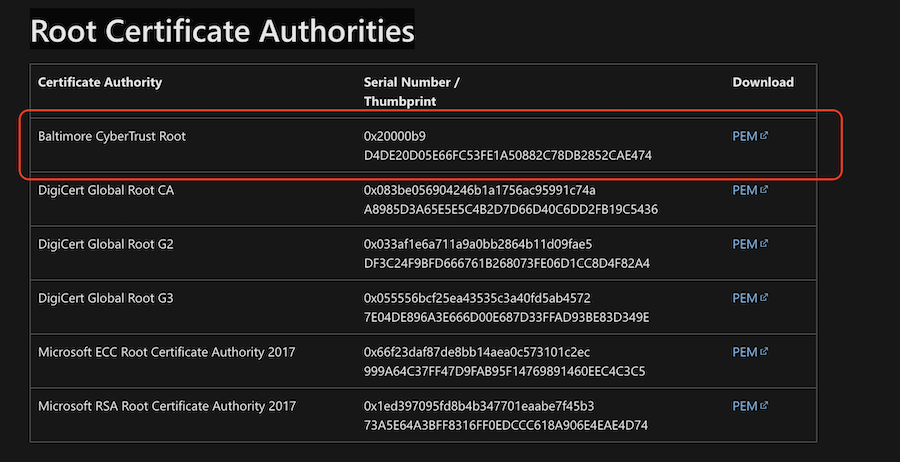
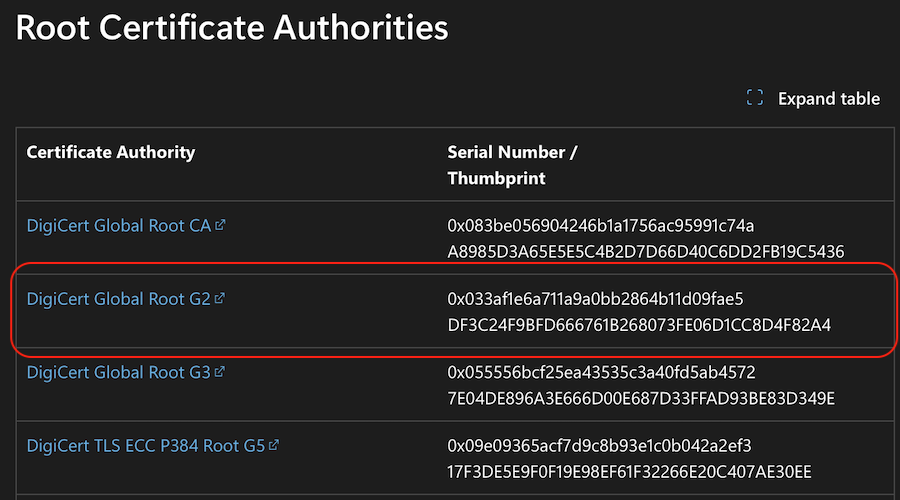
update to azure - for the latest and greatest

diff --git a/docs/docs/settings/services/iot-services/iot_azure.md b/docs/docs/settings/services/iot-services/iot_azure.md
@@ -97,9 +97,21 @@ The Certificate Authority file for Azure is downloaded from this page:
 
 [Microsoft: Azure Certificate Authority Details](https://learn.microsoft.com/en-us/azure/security/fundamentals/azure-ca-details)
 
-The file to download is the ***Baltimore CyberTrust Root*** entry in the **Root Certificate Authorities** section of the page.
-
+The file to download is the ***DigiCert Global Root G2*** entry in the **Root Certificate Authorities** section of the page.
+<figure align="center">
 ![Azure Root CA](/img/iot_az_ca_file.png)
+<figcaption>CA Selection</figcaption>
+</figure>
+
+The CA file is in a binary format and requires conversion to a standard `pem` format  (which starts with ```-----BEGIN CERTIFICATE-----``` to use by the DataLogger's Azure driver.  
+
+To convert the file, the following command is used at the command line of systems with openssl installed
+
+```sh
+openssl x509 -inform DER -in yourcert.crt -out yourcert.pem
+```
+
+Copy the file `yourcert.pem` to an SD card, insert the SD card into the Datalogger and enter the filename `yourcert.pen` in the Azure preferences, or use the JSON file mentioned in the following section.
 
 ## Setting Properties
 
@@ -143,32 +155,43 @@ Once installed, and connected to Azure via the Azure Account extension, you can 
 
 ### Connect to Your Azure IoT Hub
 
-On the Explorer panel of Visual Studio Code, click on the **...** menu of the **AZURE IOT HUB** section. In the popup menu, select the **Select IoT Hub** menu entry.
+To validate that the DataLoggerIot is communicating with your Azure IoT Hub and the associated devices, several methods are available. All these methods read and post the messages or 'telemetry' sent by the DataLogger to the Azure IoT device.
 
-![Select IoT Hub](/img/iot_az_iot_hub_sel.png)
+#### Using the Azure Command Line (CLI)
 
-The available IoT Hubs are displayed in the editors command prompt. Select the desired hub and press ```Enter``` (or click).
+One of the fast methods to do this is using the Azure CLI.
 
-![Select IoT Hub](/img/iot_az_iot_hub_sel_menu.png)
+First, install the Azure CLI. Instructions are provided here: [How to install the Azure CLI](https://learn.microsoft.com/en-us/cli/azure/install-azure-cli?view=azure-cli-latest).
 
-### Select IoT Hub
+Once installed, the `azure-iot` CLI extension needs installation. This is done with the following command:
 
-The hub is then displayed in the **AZURE IOT HUB** section of the editor Explorer. Expanding the **Devices** section of the Hub will list the example device created above.
+```sh
+az extension add --name azure-iot
+```
 
-![Select IoT Hub](/img/iot_az_iot_hub_exp.png)
+Then make sure you have logged into the Azure with the following command:
 
-### Monitoring
+```sh
+az login
+```
 
-To monitor the telemetry data send to a device, right click on the device, ***TestDevice2023*** in this example, select the menu entry **Start Monitoring Build-in Event Endpoint**.
+Then to monitor telemetry, enter the following command:
 
-![Start Monitoring](/img/iot_az_iot_start_mon.png)
+```sh
+az iot hub monitor-events --hub-name <your-hub> --output table
+```
 
-Once selected, the editor output console will start displaying output for the selected device. For the above example, with a device that has environmental sensors attached, the output appears as follows:
+Where `<your-hub>` is the name of your Azure IoT Hub.
 
-![Monitor Output](/img/iot_az_iot_mon_output.png)
+You can also filter events for a specfic device using this variant of the command:
 
-To stop monitoring, click the **Stop Monitoring build-in event endpoint** item that is displayed in the status bar of the editor.
+```sh
+az iot hub monitor-events --hub-name <your-hub> --device-id <device-id>
+```
 
-![Stop Monitoring](/img/iot_az_iot_stop_mon.png)
+Where `<device-id>` is the ID of the device.
 
-A menu option to stop monitoring is also available from the **...** menu of the **AZURE IOT HUB** section in the editor Explorer panel.
+<figure align="center">
+![Azure CLI Output](/img/iot_az_cli_monitor.png)
+<figcaption>Monitoring Azure Telemetry</figcaption>
+</figure>
